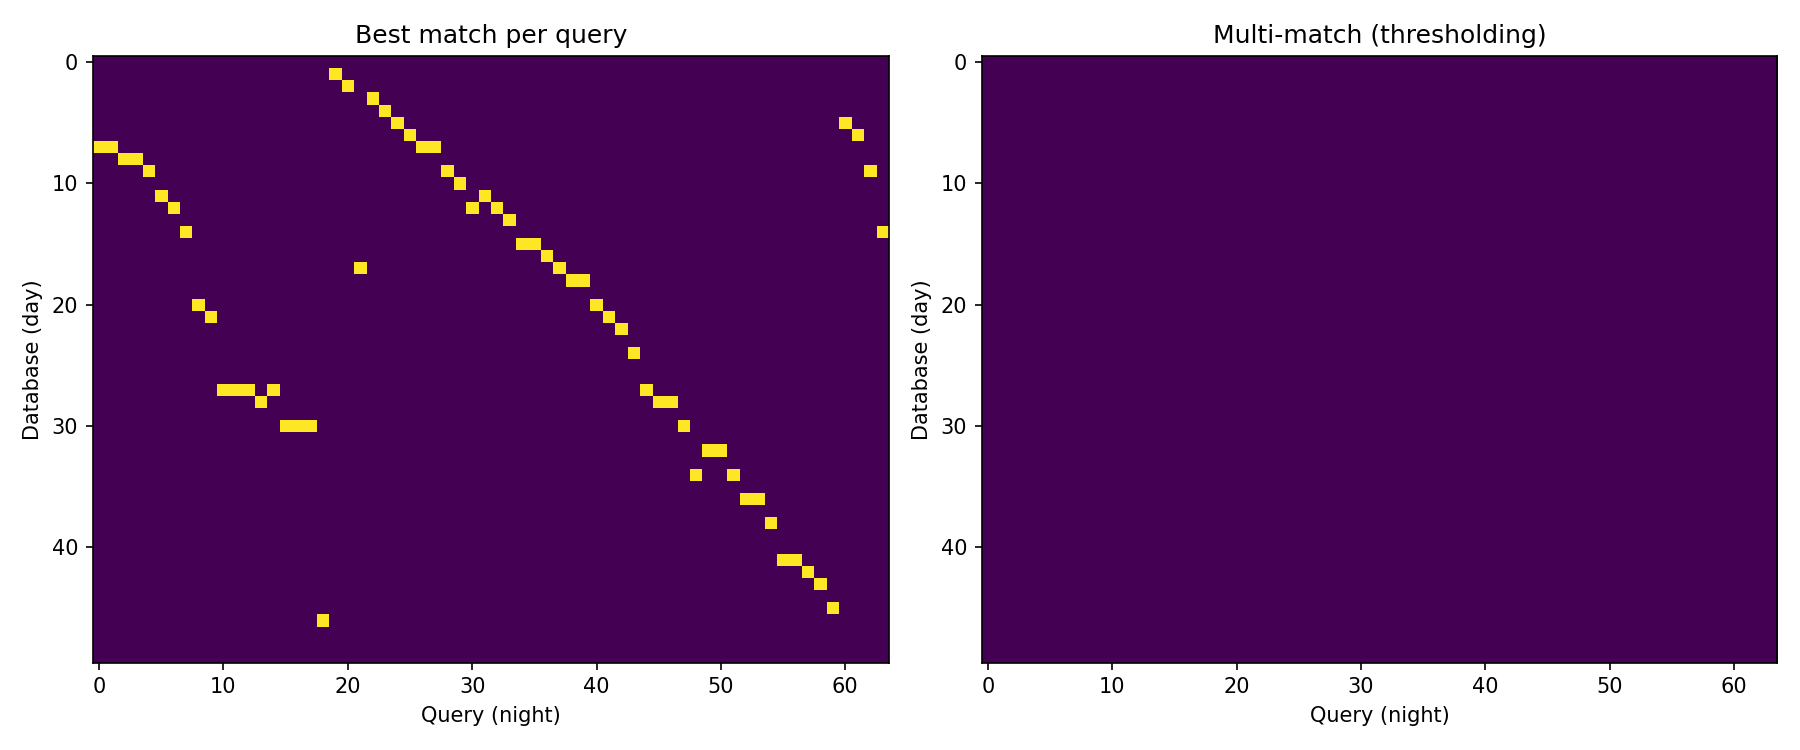
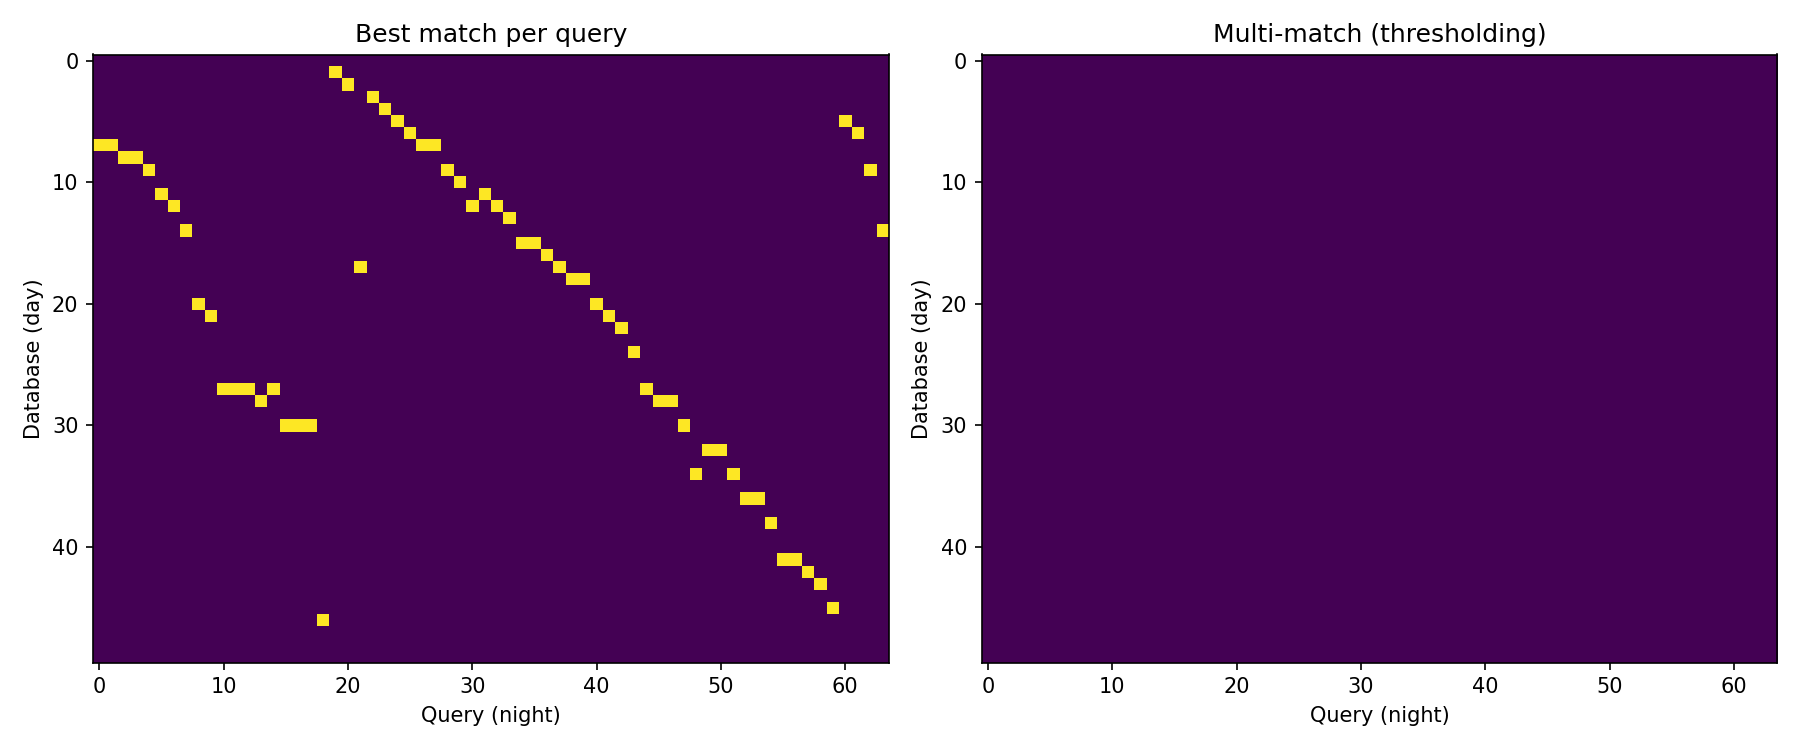
🔥 Work in progres

diff --git a/live_vpr_test.py b/live_vpr_test.py
@@ -346,6 +346,9 @@ def run_online(args: argparse.Namespace, use_video: bool = False) -> None:
     inference_results = []
     snapshot_dir = Path(args.snapshot_dir).expanduser().resolve()
     snapshot_dir.mkdir(parents=True, exist_ok=True)
+    inference_stats_dir = Path(args.inference_stats_dir).expanduser().resolve()
+    if args.save_inference_images:
+        inference_stats_dir.mkdir(parents=True, exist_ok=True)
 
     try:
         frame_source.open()
@@ -397,9 +400,19 @@ def run_online(args: argparse.Namespace, use_video: bool = False) -> None:
                 result_age_ms=result_age_ms,
                 process_fps=args.process_fps,
                 inference_active=inference_active,
+                inference_index=len(inference_results) if inference_results else None,
             )
             if args.mirror:
                 rendered = cv2.flip(rendered, 1)
+
+            if should_run_inference and args.save_inference_images and last_result is not None:
+                save_inference_image(
+                    rendered=rendered,
+                    inference_result=last_result,
+                    inference_index=len(inference_results),
+                    threshold=localizer.threshold,
+                    output_dir=inference_stats_dir,
+                )
 
             if writer is None and args.output_video:
                 writer = create_video_writer(args.output_video, rendered.shape)
@@ -429,6 +442,8 @@ def run_online(args: argparse.Namespace, use_video: bool = False) -> None:
                 print(f"Threshold: {localizer.threshold:.2f}")
 
         print_summary(inference_results, localizer.threshold, frame_count, args.process_fps)
+        if args.save_inference_images:
+            print(f"Inference images saved to: {inference_stats_dir}")
         if args.output_video:
             print(f"Annotated output saved to {Path(args.output_video).expanduser().resolve()}")
     finally:
@@ -472,6 +487,24 @@ def print_summary(results, threshold: float, displayed_frames: int | None = None
     print(f"Best-score mean/median: {scores.mean():.3f} / {np.median(scores):.3f}")
     print(f"Best-score min/max: {scores.min():.3f} / {scores.max():.3f}")
     print(f"Latency mean/median: {latencies.mean():.1f}ms / {np.median(latencies):.1f}ms")
+
+
+def save_inference_image(
+    rendered,
+    inference_result,
+    inference_index: int,
+    threshold: float,
+    output_dir: Path,
+) -> None:
+    cv2 = _import_cv2()
+    safe_score = f"{inference_result.best_score:.3f}".replace("-", "neg")
+    label = "match" if inference_result.recognized else "unknown"
+    filename = (
+        f"inference_{inference_index:05d}_{label}_"
+        f"score_{safe_score}_th_{threshold:.2f}.jpg"
+    )
+    output_path = output_dir / filename
+    cv2.imwrite(str(output_path), rendered)
 
 
 def build_parser() -> argparse.ArgumentParser:
@@ -677,6 +710,19 @@ def build_parser() -> argparse.ArgumentParser:
         type=str,
         help="Optional path for saving the annotated live/video session",
     )
+    parser.add_argument(
+        "--inference_stats_dir",
+        type=str,
+        default="artifacts/inference_stats",
+        help="Directory where annotated images are saved after each inference",
+    )
+    parser.add_argument(
+        "--no_save_inference_images",
+        dest="save_inference_images",
+        action="store_false",
+        help="Disable saving an annotated image after each inference",
+    )
+    parser.set_defaults(save_inference_images=True)
     parser.add_argument(
         "--snapshot_dir",
         type=str,

diff --git a/live_vpr/ui.py b/live_vpr/ui.py
@@ -25,12 +25,13 @@ class LiveDisplay:
         result_age_ms: float = 0.0,
         process_fps: float | None = None,
         inference_active: bool = True,
+        inference_index: int | None = None,
     ) -> np.ndarray:
         cv2 = _import_cv2()
         display = frame_bgr.copy()
         height, width = display.shape[:2]
 
-        cv2.rectangle(display, (0, 0), (width, 92), (0, 0, 0), -1)
+        cv2.rectangle(display, (0, 0), (width, 118), (0, 0, 0), -1)
 
         if result is None and not inference_active:
             status_color = (0, 170, 255)
@@ -66,6 +67,25 @@ class LiveDisplay:
             (180, 180, 180),
             1,
         )
+        if inference_index is not None:
+            cv2.putText(
+                display,
+                f"inference #{inference_index}",
+                (12, 92),
+                cv2.FONT_HERSHEY_SIMPLEX,
+                0.45,
+                (180, 180, 180),
+                1,
+            )
+        cv2.putText(
+            display,
+            "controls: i start/pause  q quit  s save frame  t top-k  +/- threshold",
+            (12, 110),
+            cv2.FONT_HERSHEY_SIMPLEX,
+            0.42,
+            (180, 180, 180),
+            1,
+        )
 
         if result is not None:
             self._draw_best_match(display, result, width)
@@ -94,7 +114,7 @@ class LiveDisplay:
         cv2 = _import_cv2()
         height, width = display.shape[:2]
         panel_height = 112
-        panel_top = max(92, height - panel_height)
+        panel_top = max(118, height - panel_height)
 
         cv2.rectangle(display, (0, panel_top), (width, height), (24, 24, 24), -1)
         cv2.putText(display, "Top matches", (12, panel_top + 18), cv2.FONT_HERSHEY_SIMPLEX, 0.5, (220, 220, 220), 1)

diff --git a/docs/LIVE_VPR_PIPELINE.md b/docs/LIVE_VPR_PIPELINE.md
@@ -156,6 +156,25 @@ The live viewer opens with inference paused by default.
 - press `i` again to pause inference
 - pass `--start_inference` if you want inference to begin immediately
 
+### What Is Used During Live Inference
+
+The live phase does not compute the offline evaluation metrics such as:
+
+- AUC
+- precision-recall curves
+- Recall@K
+- R@100P
+
+Instead, the online decision uses lightweight runtime signals:
+
+- top-1 cosine similarity score
+- thresholded recognition decision
+- top-k ranked matches
+- descriptor extraction latency
+- result age in milliseconds
+
+These are the quantities shown in the live overlay and used during the live session.
+
 If your phone appears as a virtual webcam, use another device index:
 
 ```bash
@@ -187,6 +206,8 @@ The live pipeline no longer needs to run inference on every displayed frame.
 - localization only runs at `--process_fps`
 - the most recent localization result is reused between inference steps
 - the overlay shows the age of the current result in milliseconds
+- the overlay shows the live controls directly on screen
+- an annotated image is saved after each inference by default
 
 This is usually better for laptop and phone-webcam testing because:
 
@@ -246,6 +267,10 @@ python live_vpr_test.py --mode live --source phone --map_path artifacts/live_map
   Number of best reference matches shown in the overlay.
 - `--process_fps`
   Localization cadence during live or video runtime.
+- `--inference_stats_dir`
+  Directory for annotated images saved after each inference.
+- `--no_save_inference_images`
+  Disable the default behavior of saving an annotated image after every inference.
 - `--mirror`
   Mirror the live display for a more natural webcam experience.
 - `--output_video`

diff --git a/docs/LIVE_VPR_COMMANDS.md b/docs/LIVE_VPR_COMMANDS.md
@@ -357,6 +357,8 @@ The live viewer opens with inference paused by default.
 - press `i` to start inference
 - press `i` again to pause inference
 - use `--start_inference` if you want the old immediate-start behavior
+- the controls are shown directly on the live screen
+- an annotated image is saved after each inference by default
 
 ### Bash Launcher
 
@@ -420,6 +422,18 @@ python live_vpr_test.py \
 
 Brief explanation:
 Runs live localization from the saved alias `phone` and starts inference immediately instead of opening paused.
+
+```bash
+python live_vpr_test.py \
+  --mode live \
+  --map_path artifacts/live_maps/campus_day_live.npz \
+  --source phone \
+  --process_fps 2.0 \
+  --inference_stats_dir artifacts/inference_stats/phone_live
+```
+
+Brief explanation:
+Runs live localization and saves an annotated image after every inference into the chosen directory.
 
 ```bash
 python live_vpr_test.py \

diff --git a/docs/LIVE_VPR_SCRIPT.md b/docs/LIVE_VPR_SCRIPT.md
@@ -78,6 +78,8 @@ bash scripts/live_vpr_cli.sh live --source 0 --mirror
 
 The live viewer opens with inference paused by default. Press `i` to start or pause inference. If you want it to start immediately, pass `--start_inference`.
 
+By default, the live pipeline also saves an annotated image after each inference. Use `--no_save_inference_images` if you want to disable that behavior.
+
 ### `video`
 
 Run localization on a recorded query video.
